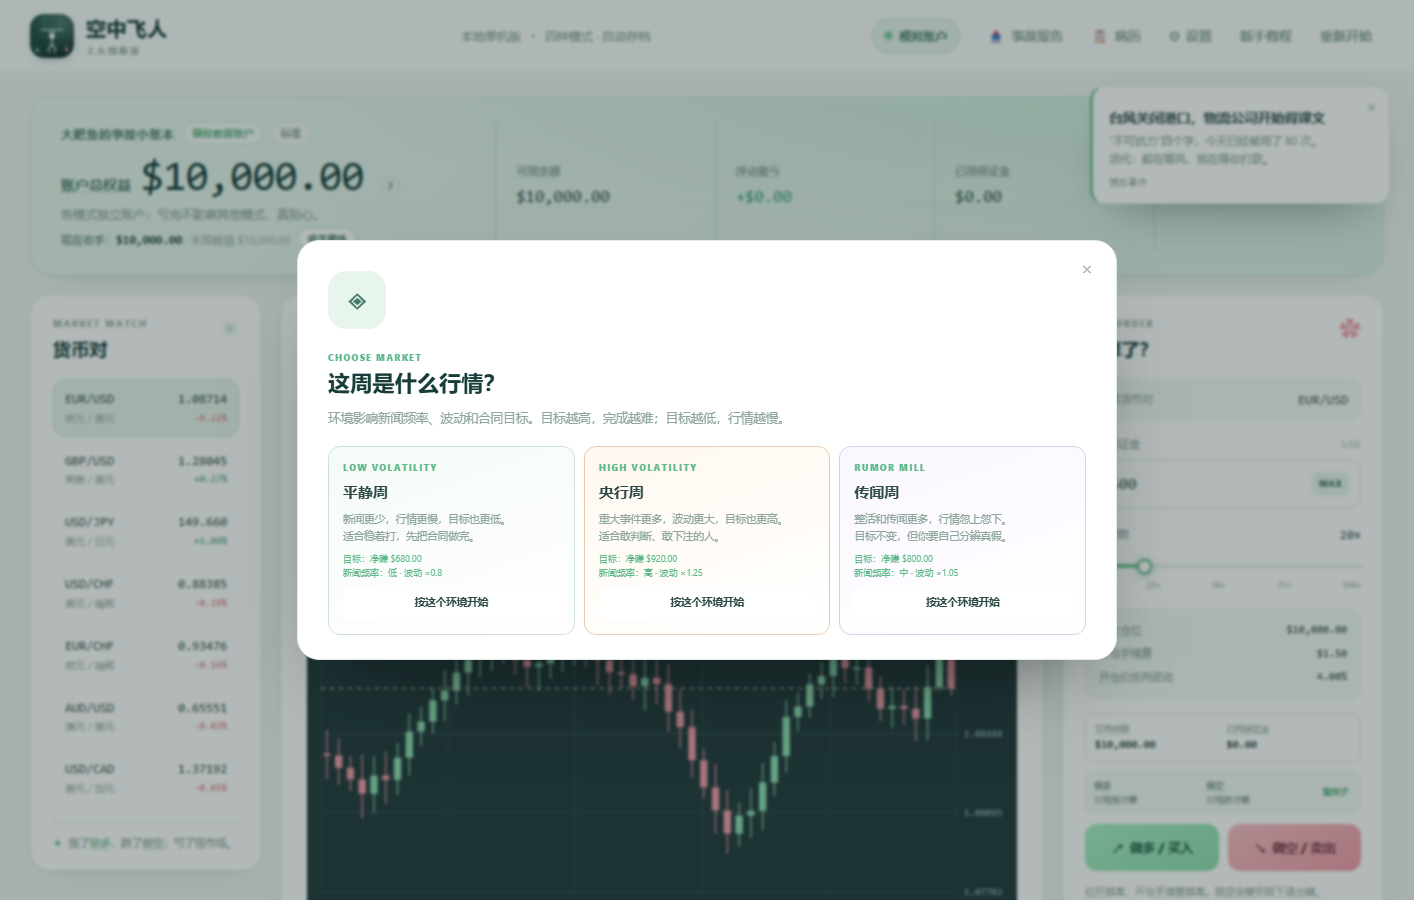
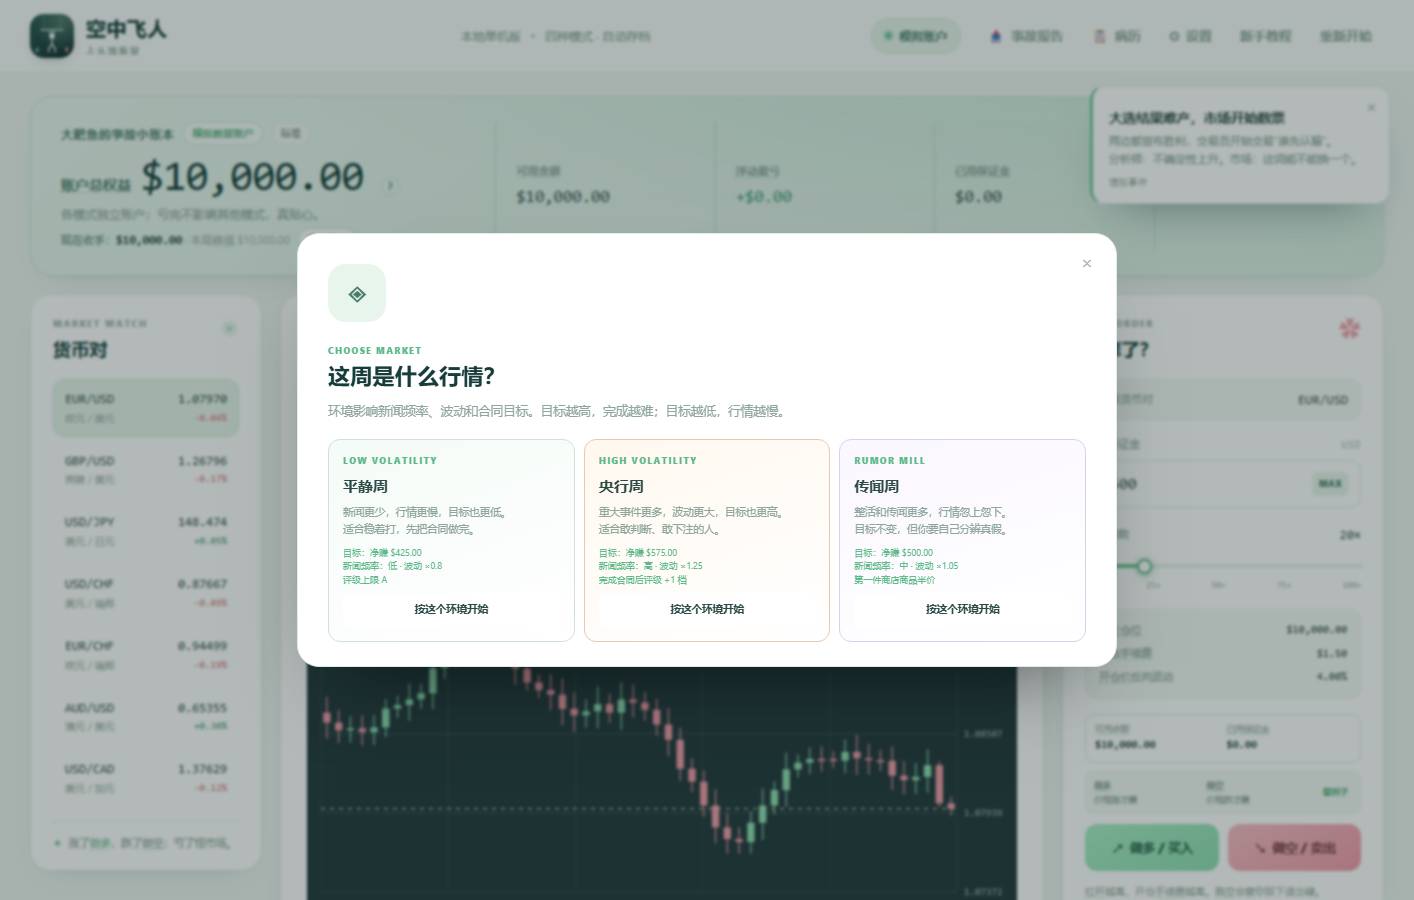
Balance pass: exclude event gifts, reward environments, fix insurance and act gating

diff --git a/engine.js b/engine.js
@@ -88,14 +88,16 @@
     if (!isContractActive()) return null;
     const c = state.contract;
     const a = account();
-    const profit = a.equity - c.startEquity;
+    const profit = a.equity - c.startEquity - (Number(c.giftIncome) || 0);
     if (c.goalType === 'debt') {
+      const gift = Number(c.giftIncome) || 0;
+      const effectiveEquity = a.equity - gift;
       const span = Math.max(1, c.targetEquity - c.startEquity);
-      const complete = state.debt <= 0 && a.equity >= c.targetEquity;
+      const complete = state.debt <= 0 && effectiveEquity >= c.targetEquity;
       return {
-        ...c, complete, profit, debt: state.debt,
-        progress: Math.max(0, Math.min(1, (a.equity - c.startEquity) / span)),
-        remaining: Math.max(0, c.targetEquity - a.equity)
+        ...c, complete, profit, debt: state.debt, effectiveEquity,
+        progress: Math.max(0, Math.min(1, (effectiveEquity - c.startEquity) / span)),
+        remaining: Math.max(0, c.targetEquity - effectiveEquity)
       };
     }
     const target = Math.max(1, c.targetProfit || 1);
@@ -123,7 +125,7 @@
     const act = Math.max(1, Math.min(3, Number(contract.act) || 1));
     const ends = Array.isArray(contract.actEnds) ? contract.actEnds : [];
     const end = Number(ends[act - 1]) || 0;
-    if ((contract.trades || 0) < end) return null;
+    if ((contract.actTrades || 0) < end) return null;
     let event = (contract.events || [])[contract.eventIndex];
     while (event && (Number(event.act) || act) < act) {
       contract.eventIndex += 1;
@@ -144,6 +146,7 @@
     if (!event || event.id !== eventId) return null;
     const choice = (event.choices || [])[Number(choiceIndex)];
     if (!choice) return null;
+    const debtBefore = state.debt;
     const effects = {
       cash: Number(choice.cash) || 0,
       debt: Number(choice.debt) || 0,
@@ -159,6 +162,8 @@
       if (state.debt <= 0) { state.loanPrincipal = 0; state.loanRate = 0; state.simLoanTicks = 0; }
     }
     if (choice.rate && state.debt > 0) state.loanRate = Math.max(0, Math.min(0.001, state.loanRate + Number(choice.rate)));
+    const equityGain = (Number(choice.cash) || 0) - (state.debt - debtBefore);
+    if (equityGain > 0) contract.giftIncome = (contract.giftIncome || 0) + equityGain;
     if (choice.flag) contract.flags[choice.flag] = true;
     contract.eventIndex += 1;
     contract.eventPending = false;
@@ -190,12 +195,21 @@
     return choice;
   }
 
+  function shopPrice(item) {
+    const contract = state.contract;
+    if (!item) return 0;
+    const discount = contract?.environment?.shopDiscount;
+    if (discount && !contract.shopDiscountUsed) return Math.max(1, Math.round(Number(item.price) * discount));
+    return Number(item.price) || 0;
+  }
+
   function buyShopItem(itemId) {
     const contract = state.contract;
     if (!contract || !contract.pendingShop) return { ok: false, message: '现在不是幕间休息。' };
     const item = (D.SHOP_ITEMS || []).find(entry => entry.id === itemId);
     if (!item) return { ok: false, message: '没有这个商品。' };
-    if (state.cash < item.price) return { ok: false, message: '现金不够。' };
+    const price = shopPrice(item);
+    if (state.cash < price) return { ok: false, message: '现金不够。' };
     if (item.id === 'intel') {
       const breaking = SIM_NEWS.filter(entry => entry.kind === 'breaking' && entry.bias?.[state.pair]
         && !activeSimNews.some(event => event.id === entry.id));
@@ -214,9 +228,10 @@
         contract.actEnds[2] = Number(contract.actEnds[2]) + 1;
       }
     }
-    state.cash -= item.price;
+    state.cash -= price;
     contract.pendingShop = false;
     contract.shopPurchased = item.id;
+    if (contract.environment?.shopDiscount && !contract.shopDiscountUsed) contract.shopDiscountUsed = true;
     contract.playstyle = contract.playstyle || { newsTrades: 0, stopCount: 0, longHolds: 0, allIn: 0, smallTrades: 0, shopVisits: 0, shopBuys: 0, blowups: 0 };
     contract.playstyle.shopBuys += 1;
     save();
@@ -252,15 +267,19 @@
     const status = contractStatus();
     if (!status) return null;
     if (state.runClosed && state.closeReason === 'bankrupt') return 'D';
-    if (status.complete) {
-      const used = status.trades || 0;
-      const peak = Math.max(Number(state.peakEquity) || account().equity, account().equity);
-      const drawdown = peak > 0 ? Math.max(0, peak - account().equity) / peak : 0;
-      if (used <= Math.ceil((status.maxTrades || 99) * 0.6) && drawdown <= 0.12) return 'S';
-      if (used <= Math.ceil((status.maxTrades || 99) * 0.8) && drawdown <= 0.25) return 'A';
-      return 'B';
-    }
-    return account().equity >= state.contract.startEquity ? 'B' : 'C';
+    if (!status.complete) return account().equity >= state.contract.startEquity ? 'B' : 'C';
+    const used = status.trades || 0;
+    const peak = Math.max(Number(state.peakEquity) || account().equity, account().equity);
+    const drawdown = peak > 0 ? Math.max(0, peak - account().equity) / peak : 0;
+    let grade = 'B';
+    if (used <= Math.ceil((status.maxTrades || 99) * 0.6) && drawdown <= 0.12) grade = 'S';
+    else if (used <= Math.ceil((status.maxTrades || 99) * 0.8) && drawdown <= 0.25) grade = 'A';
+    const environment = state.contract.environment;
+    const rank = { C: 0, B: 1, A: 2, S: 3 };
+    const byRank = ['C', 'B', 'A', 'S'];
+    if (environment?.gradeBonus) grade = byRank[Math.min(3, rank[grade] + environment.gradeBonus)] || grade;
+    if (environment?.gradeCap && rank[grade] > rank[environment.gradeCap]) grade = environment.gradeCap;
+    return grade;
   }
 
   function airborneThreshold() {
@@ -297,6 +316,7 @@
     }
     if (contract.id === 'layoff') {
       if (flags.preparedInterview) return ending('layoff-job');
+      if (flags.foughtSeverance) return ending('layoff-fought');
       if (flags.listenedRumor) return ending('layoff-flex');
       return ending('layoff-gig');
     }
@@ -354,8 +374,11 @@
       trades: 0,
       act: 1,
       actEnds,
+      actTrades: 0,
       pendingShop: false,
       shopPurchased: null,
+      shopDiscountUsed: false,
+      giftIncome: 0,
       playstyle: { newsTrades: 0, stopCount: 0, longHolds: 0, allIn: 0, smallTrades: 0, shopVisits: 0, shopBuys: 0, blowups: 0 },
       startEquity: account().equity,
       goalAnnounced: false,
@@ -407,8 +430,11 @@
         state.contract.actEnds = [Math.ceil(maxTrades / 3), Math.ceil(maxTrades * 2 / 3), maxTrades];
       }
       state.contract.act = Math.max(1, Math.min(3, Number(state.contract.act) || 1));
+      state.contract.actTrades = Math.max(0, Math.floor(Number(state.contract.actTrades) || 0));
       state.contract.pendingShop = !!state.contract.pendingShop;
       state.contract.shopPurchased = state.contract.shopPurchased || null;
+      state.contract.shopDiscountUsed = !!state.contract.shopDiscountUsed;
+      state.contract.giftIncome = Math.max(0, Number(state.contract.giftIncome) || 0);
       state.contract.playstyle = state.contract.playstyle && typeof state.contract.playstyle === 'object'
         ? { newsTrades: 0, stopCount: 0, longHolds: 0, allIn: 0, smallTrades: 0, shopVisits: 0, shopBuys: 0, blowups: 0, ...state.contract.playstyle }
         : { newsTrades: 0, stopCount: 0, longHolds: 0, allIn: 0, smallTrades: 0, shopVisits: 0, shopBuys: 0, blowups: 0 };
@@ -643,6 +669,8 @@
       if (majorActive) c.playstyle.newsTrades += 1;
       if (margin >= Math.max(1, cashBefore) * 0.5) c.playstyle.allIn += 1;
       if (margin <= 100) c.playstyle.smallTrades += 1;
+      const minimumActMargin = Math.max(10, (Number(c.startEquity) || 10000) * 0.01);
+      if (margin >= minimumActMargin - 0.001) c.actTrades = (Number(c.actTrades) || 0) + 1;
     }
     const position = {
       id: `${Date.now()}-${Math.random().toString(36).slice(2, 7)}`,
@@ -686,7 +714,7 @@
     state.cash += pos.margin + pnl;
     let insuranceRelief = 0;
     if (isContractActive() && state.contract.insurance && pnl < 0 && (meta.trigger === 'stop' || liquidated)) {
-      insuranceRelief = Math.min(20, Math.abs(pnl) * 0.5);
+      insuranceRelief = Math.min(50, Math.abs(pnl));
       state.cash += insuranceRelief;
       state.contract.insurance = false;
       state.contract.insuranceUsed = true;
@@ -1933,6 +1961,7 @@
     contractNoLoans,
     maybeContractEvent,
     buyShopItem,
+    shopPrice,
     skipShop,
     resolveContractEvent,
     setDifficulty,

diff --git a/data.js b/data.js
@@ -341,9 +341,9 @@
     },
     {
       id: 'rent', kicker: 'CONTRACT 01', title: '这个月房租', tone: 'rent',
-      background: '房东在群里发了第三次「在吗」。\n工资还有 9 天到账，房租还差 $800。\n这时你看到一条广告：\n「在家做外汇，一天赚回房租。」',
-      goalText: '净赚 $800 后收手。', limitText: '最多 5 笔交易',
-      specialText: '本合同不开放借款。', goalType: 'profit', targetProfit: 800, maxTrades: 5, noLoans: true,
+      background: '房东在群里发了第三次「在吗」。\n工资还有 9 天到账，房租还差 $500。\n这时你看到一条广告：\n「在家做外汇，一天赚回房租。」',
+      goalText: '净赚 $500 后收手。', limitText: '最多 5 笔交易',
+      specialText: '本合同不开放借款。', goalType: 'profit', targetProfit: 500, maxTrades: 5, noLoans: true,
       coachTargetProfit: 100, coachGoalText: '净赚 $100 后收手。',
       events: [
         {
@@ -375,8 +375,8 @@
     {
       id: 'debt', kicker: 'CONTRACT 02', title: '还清肥鱼信贷', tone: 'debt',
       background: '你已经在肥鱼信贷借了 $3,000。\n今天不还，明天利息翻倍。\n你看了看账户里最后 $10,000，\n决定「翻本就走」。',
-      goalText: '还清 $3,000 贷款，并让权益达到 $8,000。', limitText: '最多 10 笔交易',
-      specialText: '初始负债 $3,000；不开放新增借款。', goalType: 'debt', startDebt: 3000, targetEquity: 8000, maxTrades: 10, noLoans: true,
+      goalText: '还清 $3,000 贷款，并让权益达到 $7,500。', limitText: '最多 10 笔交易',
+      specialText: '初始负债 $3,000；不开放新增借款。', goalType: 'debt', startDebt: 3000, targetEquity: 7500, maxTrades: 10, noLoans: true,
       coachTargetEquity: 7200, coachGoalText: '还清 $3,000 贷款，并让权益达到 $7,200。',
       events: [
         {
@@ -407,9 +407,9 @@
     },
     {
       id: 'layoff', kicker: 'CONTRACT 03', title: '被裁员的第 30 天', tone: 'layoff',
-      background: 'HR 说「公司感谢你的贡献」。\n你算了算，赔偿金只够交两个月房租。\n招聘软件上全是已读不回。\n你决定先赚 $3,000 过渡费。\n你告诉自己：找到工作就收手。',
-      goalText: '净赚 $3,000 后收手。', limitText: '最多 8 笔交易',
-      specialText: '初始现金 $6,000；不开放借款。', goalType: 'profit', startCash: 6000, targetProfit: 3000, maxTrades: 8, noLoans: true,
+      background: 'HR 说「公司感谢你的贡献」。\n你算了算，赔偿金只够交两个月房租。\n招聘软件上全是已读不回。\n你决定先赚 $1,500 过渡费。\n你告诉自己：找到工作就收手。',
+      goalText: '净赚 $1,500 后收手。', limitText: '最多 8 笔交易',
+      specialText: '初始现金 $6,000；不开放借款。', goalType: 'profit', startCash: 6000, targetProfit: 1500, maxTrades: 8, noLoans: true,
       coachTargetProfit: 500, coachGoalText: '净赚 $500 后收手。',
       events: [
         {
@@ -432,7 +432,7 @@
           id: 'layoff-3', at: 5, act: 3, title: '前同事拉你进群',
           text: '前同事说群里有「内部消息」。\n截图很模糊，语气很确定。',
           choices: [
-            { label: '听消息', cash: 500, flag: 'listenedRumor', note: '消息费 $500，群里的截图还是很模糊。' },
+            { label: '听消息', cash: -500, flag: 'listenedRumor', note: '消息费 $500，群里的截图还是很模糊。' },
             { label: '不信', cash: 0, flag: 'ignoredRumor', note: '你退群了，世界安静了一点。' }
           ]
         },
@@ -509,6 +509,11 @@
       hint: '完成目标，并听了前同事的消息。',
       text: '群里的消息没让你发财，但让你有了一个新身份：灵活就业。'
     },
+    'layoff-fought': {
+      title: '据理力争', tone: 'neutral', group: '裁员',
+      hint: '完成目标，并在 HR 约谈时争取更多赔偿。',
+      text: '你争到了该争的，也失去了不该留的。\n赔偿金到账那天，你把这笔钱分成两半：一半生活，一半继续赌。'
+    },
     'layoff-gig': {
       title: '先干着', tone: 'neutral', group: '裁员',
       hint: '完成目标，但没准备面试。',
@@ -525,17 +530,20 @@
     {
       id: 'calm', title: '平静周', kicker: 'LOW VOLATILITY', tone: 'calm',
       desc: '新闻更少，行情更慢，目标也更低。\n适合稳着打，先把合同做完。',
-      targetMultiplier: 0.85, newsFreq: 'low', volatility: 0.8
+      targetMultiplier: 0.85, newsFreq: 'low', volatility: 0.8,
+      gradeCap: 'A', rewardText: '评级上限 A'
     },
     {
       id: 'central', title: '央行周', kicker: 'HIGH VOLATILITY', tone: 'central',
       desc: '重大事件更多，波动更大，目标也更高。\n适合敢判断、敢下注的人。',
-      targetMultiplier: 1.15, newsFreq: 'high', volatility: 1.25
+      targetMultiplier: 1.15, newsFreq: 'high', volatility: 1.25,
+      gradeBonus: 1, rewardText: '完成合同后评级 +1 档'
     },
     {
       id: 'rumor', title: '传闻周', kicker: 'RUMOR MILL', tone: 'rumor',
       desc: '整活和传闻更多，行情忽上忽下。\n目标不变，但你要自己分辨真假。',
-      targetMultiplier: 1, newsFreq: 'mid', volatility: 1.05
+      targetMultiplier: 1, newsFreq: 'mid', volatility: 1.05,
+      shopDiscount: 0.5, rewardText: '第一件商店商品半价'
     }
   ];
 
@@ -545,8 +553,8 @@
       desc: '提前知道下一条重大事件的标题。\n只告诉你可能发生什么，不告诉你涨还是跌。'
     },
     {
-      id: 'insurance', title: '止损保险', price: 200, kicker: 'INSURANCE',
-      desc: '下一次止损返还一半亏损，最多 $20。\n用一次就没了。'
+      id: 'insurance', title: '止损保险', price: 30, kicker: 'INSURANCE',
+      desc: '下一次止损返还全部亏损，最多 $50。\n用一次就没了。'
     },
     {
       id: 'extension', title: '延期一次', price: 300, kicker: 'EXTENSION',

diff --git a/ui.js b/ui.js
@@ -199,7 +199,7 @@
       if (done) {
         contractLine.textContent = `${actLabel} · 目标达成。现在收手，还是再贪一点？`;
       } else if (contract.goalType === 'debt') {
-        contractLine.textContent = `${actLabel} · ${contract.title}${contract.environmentTitle ? ` · ${contract.environmentTitle}` : ''} · 权益 ${D.money(a.equity)} / ${D.money(contract.targetEquity)} · 贷款 ${D.money(s.debt)} · 交易 ${contract.trades || 0}/${contract.maxTrades}`;
+        contractLine.textContent = `${actLabel} · ${contract.title}${contract.environmentTitle ? ` · ${contract.environmentTitle}` : ''} · 权益 ${D.money(contract.effectiveEquity ?? a.equity)} / ${D.money(contract.targetEquity)} · 贷款 ${D.money(s.debt)} · 交易 ${contract.trades || 0}/${contract.maxTrades}`;
       } else {
         contractLine.textContent = `${actLabel} · ${contract.title}${contract.environmentTitle ? ` · ${contract.environmentTitle}` : ''} · 已赚 ${D.signedMoney(contract.profit)} / ${D.money(contract.targetProfit)} · 还差 ${D.money(contract.remaining)} · 交易 ${contract.trades || 0}/${contract.maxTrades}`;
       }
@@ -1110,13 +1110,15 @@
     const root = $('shopList');
     root.replaceChildren();
     (D.SHOP_ITEMS || []).forEach(item => {
+      const price = E.shopPrice(item);
+      const discounted = price < item.price;
       const card = document.createElement('div');
       card.className = 'shop-card';
       card.innerHTML = `<span class="contract-kicker">${item.kicker}</span>
         <h3>${item.title}</h3>
         <p>${item.desc}</p>
-        <span class="shop-price">${D.money(item.price)}</span>
-        <button type="button"${cash < item.price ? ' disabled' : ''}>${cash < item.price ? '现金不够' : '买下'}</button>`;
+        <span class="shop-price">${D.money(price)}${discounted ? ` <s>${D.money(item.price)}</s>` : ''}</span>
+        <button type="button"${cash < price ? ' disabled' : ''}>${cash < price ? '现金不够' : '买下'}</button>`;
       card.querySelector('button').addEventListener('click', () => {
         const result = E.buyShopItem(item.id);
         if (!result.ok) {
@@ -1180,7 +1182,7 @@
       card.innerHTML = `<span class="contract-kicker">${env.kicker}</span>
         <h3>${env.title}</h3>
         <p>${env.desc}</p>
-        <small>${targetText}<br>新闻频率：${env.newsFreq === 'low' ? '低' : env.newsFreq === 'high' ? '高' : '中'} · 波动 ×${env.volatility}</small>
+        <small>${targetText}<br>新闻频率：${env.newsFreq === 'low' ? '低' : env.newsFreq === 'high' ? '高' : '中'} · 波动 ×${env.volatility}<br>${env.rewardText || ''}</small>
         <button type="button">按这个环境开始</button>`;
       card.querySelector('button').addEventListener('click', () => startSelectedContract(pendingContractId, env.id));
       root.append(card);

diff --git a/README.md b/README.md
@@ -68,11 +68,11 @@ node server.js
 
 签合同后，标准模式会先选一个市场环境：
 
-| 环境 | 影响 |
-|---|---|
-| 平静周 | 新闻少、波动 ×0.8、合同目标 -15% |
-| 央行周 | 重大事件更多、波动 ×1.25、合同目标 +15% |
-| 传闻周 | 整活/传闻更多、波动 ×1.05、目标不变 |
+| 环境 | 影响 | 额外规则 |
+|---|---|---|
+| 平静周 | 新闻少、波动 ×0.8、合同目标 -15% | 评级上限 A |
+| 央行周 | 重大事件更多、波动 ×1.25、合同目标 +15% | 完成合同后评级 +1 档 |
+| 传闻周 | 整活/传闻更多、波动 ×1.05、目标不变 | 第一件商店商品半价 |
 
 环境会影响新闻频率、行情波动和合同目标；教练模式跳过这一层。
 
@@ -90,6 +90,7 @@ node server.js
 
 - 合同行会显示 `第一幕 / 第二幕 / 第三幕`；
 - 事件弹窗显示当前幕；
+- 只有投入达到开局权益 1% 的交易，才计入幕进度；$10 微型交易不能刷幕；
 - 裁员合同最后两件事都在第三幕收束，会连续出现；
 - 第二幕、第三幕开始前会进入幕间情报商店。
 
@@ -102,7 +103,7 @@ node server.js
 | 商品 | 价格 | 效果 |
 |---|---:|---|
 | 一条情报 | $100 | 提前知道下一条重大事件的标题，不告诉你方向 |
-| 止损保险 | $200 | 下一次止损返还一半亏损，最多 $20 |
+| 止损保险 | $30 | 下一次止损返还全部亏损，最多 $50 |
 | 延期一次 | $300 | 合同交易次数 +1 |
 
 可以买一件，也可以直接跳过。买东西会直接扣现金，所以会抬高完成合同的难度。
@@ -235,9 +236,9 @@ node server.js
 | 合同 | 目标 | 限制 |
 |---|---|---|
 | 自由模式 | 没有目标 | 规则照旧 |
-| 这个月房租 | 净赚 $800 | 最多 5 笔交易，不开放借款 |
-| 还清肥鱼信贷 | 还清 $3,000，并让权益达到 $8,000 | 最多 10 笔交易，初始负债 $3,000 |
-| 被裁员的第 30 天 | 净赚 $3,000 | 初始现金 $6,000，最多 8 笔交易，不开放借款 |
+| 这个月房租 | 净赚 $500 | 最多 5 笔交易，不开放借款 |
+| 还清肥鱼信贷 | 还清 $3,000，并让权益达到 $7,500 | 最多 10 笔交易，初始负债 $3,000 |
+| 被裁员的第 30 天 | 净赚 $1,500 | 初始现金 $6,000，最多 8 笔交易，不开放借款 |
 
 合同选择改成一次只显示一张，用「上一份 / 下一份」翻页，手机上不用再滚四张大卡。
 
